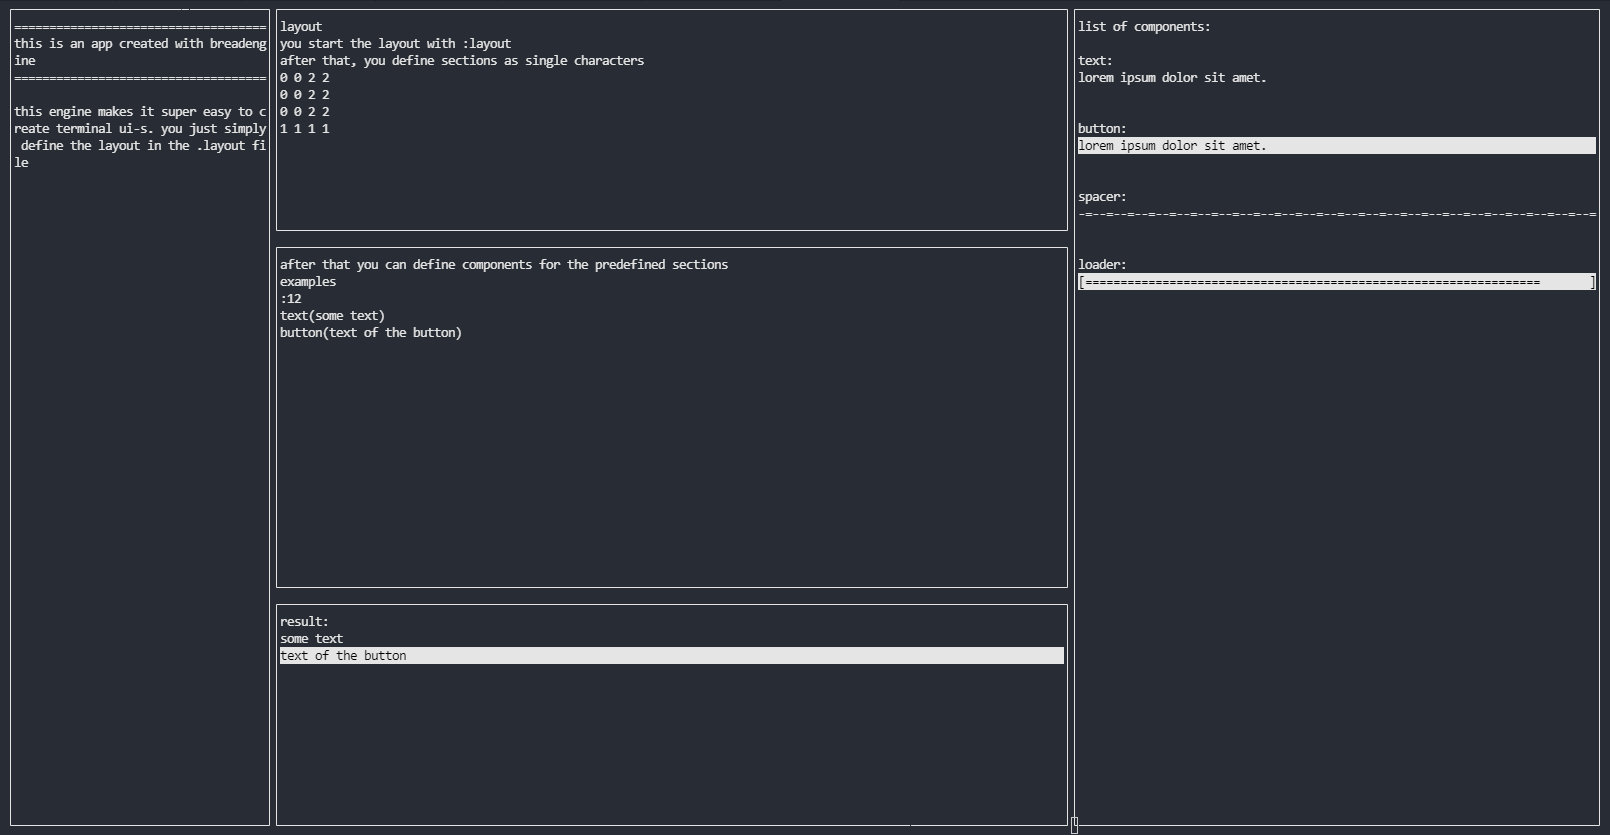
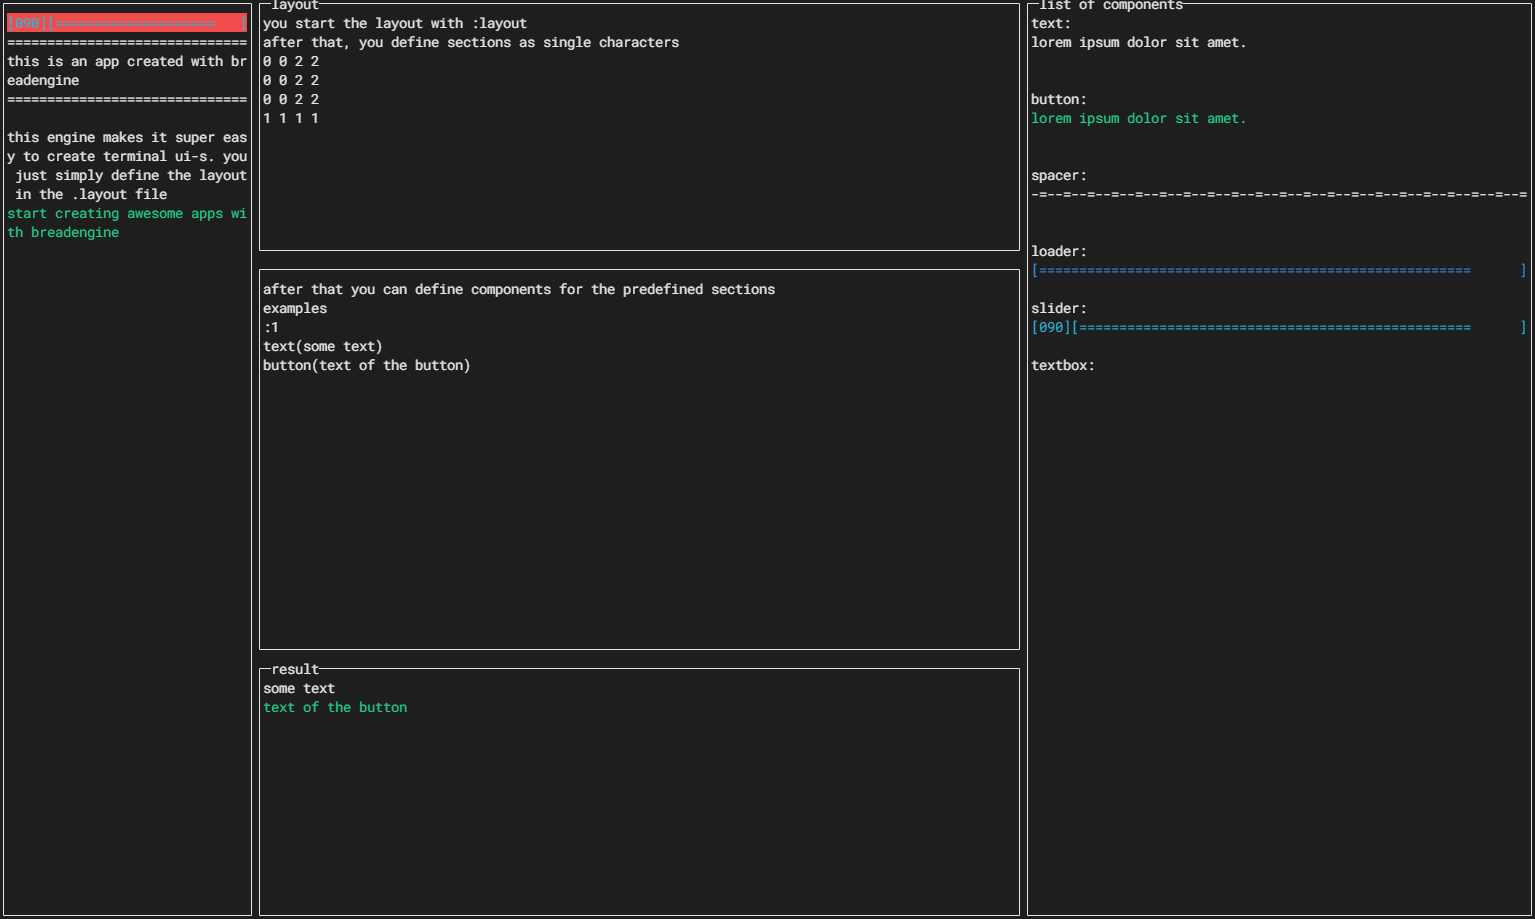
Done button callbacks Added support for defining components with id-s and later referencing thm in the code

Changed region(s): [[0.0, 0.0, 1.0, 1.0]]

diff --git a/FileReader.cs b/FileReader.cs
@@ -140,52 +140,82 @@ namespace BreadEngine {
         private static Component parseComponent(string line, int lineCounter){
             int OpeningBracketIndex = line.IndexOf('(');
             int ClosingBracketIndex = line.LastIndexOf(')');
+            int HashIndex = line.IndexOf('#');
+            bool hasId = false;
 
+
+            Component component;
+            string uid = null;
             if(OpeningBracketIndex == -1) {
                 if (ClosingBracketIndex != -1) {
                     ThrowError($"Found ')', but no '(' (line {lineCounter})");
                     return null;
                 }
+
+                hasId = HashIndex != -1;
+                if (hasId)
+                    uid = line.Substring(HashIndex+1);
+                
                 //No parameters
-                string componentname = line.ToLower().Trim();
+                string componentname = ((hasId) ?  line.Substring(0, HashIndex) : line).ToLower().Trim();
                 switch (componentname) {
                     case "text":
-                        return new Text(getParameter(line, lineCounter));
+                        component = new Text(getParameter(line, lineCounter));
+                        break;
                     case "button":
-                        return new Button(getParameter(line, lineCounter));
+                        component = new Button(getParameter(line, lineCounter));
+                        break;
                     case "title":
                         //TODO check for multiple titles
-                        return new Title(getParameter(line, lineCounter));
+                        component = new Title(getParameter(line, lineCounter));
+                        break;
                     case "loader":
-                        return new LoadBar();
+                        component = new LoadBar();
+                        break;
                     case "slider":
-                        return new Slider();
+                        component = new Slider();
+                        break;
                     case "textbox":
-                        return new TextBox();
+                        component = new TextBox();
+                        break;
                     case "spacer":
-                        return new Spacer();
+                        component = new Spacer();
+                        break;
                     default:
                         ThrowError($"Unrecognized component on line {lineCounter}");
                         return null;
                 }
             }else{
                 //With Parameters
-                string componentname = line.ToLower().Trim().Substring(0, OpeningBracketIndex);
+                hasId = HashIndex != -1 && HashIndex < OpeningBracketIndex;
+                if (hasId)
+                    uid = line.Substring(HashIndex+1, OpeningBracketIndex - HashIndex-1);
+                string componentname = line.ToLower().Trim().Substring(0, OpeningBracketIndex - ((hasId)?HashIndex-1:0));
                 switch (componentname) {
                     case "text":
-                        return new Text(getParameter(line, lineCounter));
+                        component = new Text(getParameter(line, lineCounter));
+                        break;
                     case "button":
-                        return new Button(getParameter(line, lineCounter));
+                        component = new Button(getParameter(line, lineCounter));
+                        break;
                     case "title":
                         //TODO check for multiple titles
-                        return new Title(getParameter(line, lineCounter));
+                        component = new Title(getParameter(line, lineCounter));
+                        break;
                     case "spacer":
-                        return new Spacer(getParameter(line,lineCounter));
+                        component = new Spacer(getParameter(line,lineCounter));
+                        break;
                     default:
                         ThrowError($"Unrecognized component on line {lineCounter}");
                         return null;
                 }
             }
+
+            //Adding id
+            if (hasId) {
+                component.uid = uid;
+            }
+            return component;
         }
 
         //Extracts the string from inside of

diff --git a/Component.cs b/Component.cs
@@ -16,6 +16,8 @@ namespace BreadEngine {
         public ConsoleColor foreground = ConsoleColor.White;
         public ConsoleColor background = ConsoleColor.Black;
 
+        public string uid = null;
+
         public virtual char[] Draw(int width){
             return new char[width];
         }
@@ -27,6 +29,14 @@ namespace BreadEngine {
                 return ComponentNavigationAction.PreviousComponent;
             } else {
                 return ComponentNavigationAction.Stay;
+            }
+        }
+
+        public override string ToString() {
+            if (uid != null) {
+                return $"{this.GetType().Name.ToUpper()}({uid})";
+            }else{
+                return this.GetType().Name.ToUpper();
             }
         }
     }
@@ -93,12 +103,19 @@ namespace BreadEngine {
         }
     }
 
+
     public class Button : Component {
+        public delegate void ButtonCallback();
+        private ButtonCallback callback = () => {};
         public string text;
 
         public Button(string text) {
             this.text = text;
             foreground = ConsoleColor.Green;
+        }
+
+        public void SetCallback(ButtonCallback callback){
+            this.callback = callback;
         }
 
         public override char[] Draw(int width){
@@ -107,6 +124,15 @@ namespace BreadEngine {
                 toReturn[i] = text[i];
             }
             return toReturn;
+        }
+
+        public override ComponentNavigationAction OnKey(ConsoleKeyInfo keyInfo){
+            if(keyInfo.Key == ConsoleKey.Enter){
+                callback();
+                return ComponentNavigationAction.Stay;
+            } else {
+                return base.OnKey(keyInfo);
+            }
         }
     }
 

diff --git a/UIManager.cs b/UIManager.cs
@@ -27,17 +27,32 @@ namespace BreadEngine {
             universalKeyCodes.Add(key, callback);
         }
 
-        public static void StartLoop(ReadReturn data) {
+        public static Panel GetPanel(char identifier){
+            return panels[identifier];
+        }
+
+        public static Component GetComponent(string uid){ //TODO check for null
+            foreach (KeyValuePair<char,Panel> panel in panels) {
+                Component _toReturn = panel.Value.GetComponent(uid);
+                if (_toReturn != null) {
+                    return _toReturn;
+                }
+            }
+            return null;
+        }
+
+        public static void SetUI(ReadReturn data){
             matrix = data.matrix;
             identifiers = data.identifiers;
             navigation = data.naviagation;
 
+            //Filling up panels
             foreach (KeyValuePair<char, ArrayList> identifier in identifiers) {
                 panels.Add(identifier.Key, new Panel(identifier.Value, matrix.Count));
             }
+        }
 
-            
-            
+        public static void StartLoop() {
             int matrixHeight = matrix.Count;            
             int matrixWidth = ((char[])matrix[0]).Length;
             int screenWidth = FastConsole.Width;

diff --git a/Program.cs b/Program.cs
@@ -6,6 +6,8 @@ namespace BreadEngine {
             FastConsole.Clear();
 
             ReadReturn ret = FileReader.Read(".Layout");
+            UIManager.SetUI(ret);
+
             UIManager.addUniversalKeyBind(ConsoleKey.Escape,() => {
                 Console.ResetColor();
                 Console.Clear();
@@ -13,7 +15,12 @@ namespace BreadEngine {
                 return false;
             });
 
-            UIManager.StartLoop(ret);
+            Button testButton = (Button) UIManager.GetComponent("test");
+            testButton.SetCallback(() => {
+                testButton.text = "Hello world!";
+            });
+            FastConsole.Flush();
+            UIManager.StartLoop();
             
             FastConsole.SetCursor(0,0);
             FastConsole.Write("Program Stopped execution");

diff --git a/FastConsole.cs b/FastConsole.cs
@@ -96,6 +96,9 @@ namespace BreadEngine {
         }
 
         public static void Write(string s, ConsoleColor ForeGroundColor = ConsoleColor.White, ConsoleColor BackGroundColor = ConsoleColor.Black){
+            if(s == null){
+                return;
+            }
             for (int i = 0; i < s.Length; i++) {
                 buffer[offset++] = new ConsoleChar(s[i], ForeGroundColor, BackGroundColor);
             }

diff --git a/Panel.cs b/Panel.cs
@@ -28,7 +28,14 @@ namespace BreadEngine {
             }
         }
 
-        
+        public Component GetComponent(string uid){
+            foreach (Component component in components) {
+                if (component.uid == uid) {
+                    return component;
+                }
+            }
+            return null;
+        }
 
         bool firstDrawCall = true;
         public void Draw(){

diff --git a/README.md b/README.md
@@ -1,35 +1,20 @@
-# 🍞 BreadEngine 🍞
-A terminal-ui engine
-
-! This project is a work in progress !
+# 🍞 BreadEngine 🍞 - A terminal-ui engine
 
 ###  Goal:
-Generate the barebone ui-s of a tui application from a layout file as such.
-building this would give you a working console application with the navigation
-already in place, buttons and nput fields already working
+Generate an out of the box working console application which is generated from a layout file
 
-### A layout file
+### Install
+Just clone the repository
 ```
-:LAYOUT
-0 0 0 0 2
-0 0 0 0 2
-1 1 1 1 2
-
-:NAV
-0 1 2 3 4
-
-:0
-TEXT(Some text inside of a textcomponent)
-BUTTON(You can click me)
-
-:1
-TEXT(Spacers are cool)
-SPACER
-TEXT(They seperate text)
+git clone https://github.com/Chicken112/BreadEngine.git
 ```
 
+### Contributing
 Feel free to message me with ideas, or commit a pull request
 
 
 ### Screenshots
 ![Screenshot1](https://github.com/Chicken112/BreadEngine/blob/main/images/breadengine.png)
+
+### Legal
+MIT license
